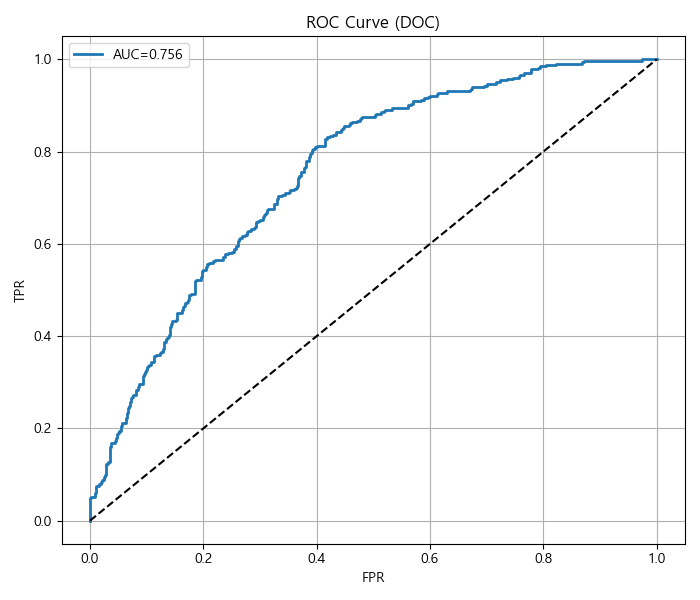
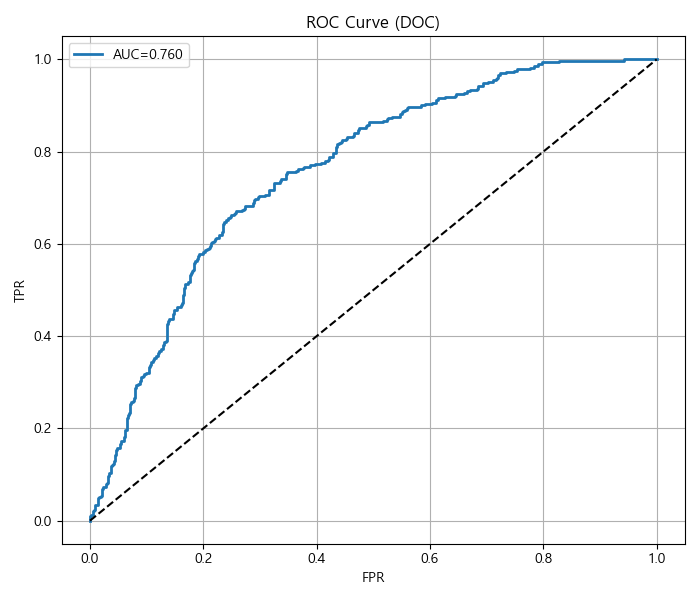
ADB algorithm modified

diff --git a/studio.py b/studio.py
@@ -655,6 +655,7 @@ class DOCRobertaClassifier(pl.LightningModule):
 
 class RobertaADB(pl.LightningModule):
     """RoBERTa model with Adaptive Decision Boundary (ADB) components."""
+    """RoBERTa model with Adaptive Decision Boundary (ADB) components."""
     def __init__( self, model_name: str = "roberta-base", num_classes: int = 20, learning_rate: float = 1e-3,
                   weight_decay: float = 0.0, warmup_steps: int = 0, total_steps: int = 0,
                   delta: float = 0.1, alpha: float = 0.1, freeze_backbone: bool = True ):
@@ -663,44 +664,59 @@ class RobertaADB(pl.LightningModule):
         self.config = RobertaConfig.from_pretrained(model_name)
         self.roberta = RobertaModel.from_pretrained(model_name, config=self.config)
         self.feat_dim = self.config.hidden_size
-        # Learnable centers and radii
-        self.centers = nn.Parameter(torch.empty(num_classes, self.feat_dim), requires_grad=True)
-        self.radii = nn.Parameter(torch.empty(num_classes), requires_grad=True) # Learn radius directly
-        nn.init.normal_(self.centers, std=0.05)
-        # Initialize radii (e.g., corresponding to cosine distance 0.1-0.3)
-        # Radius here is the *distance* boundary. Smaller radius = tighter boundary.
-        nn.init.uniform_(self.radii, 0.1, 0.3)
 
-        self.learning_rate = learning_rate
+        # Learnable centers
+        self.centers = nn.Parameter(torch.empty(num_classes, self.feat_dim), requires_grad=True)
+        nn.init.normal_(self.centers, std=0.05)
+
+        # --- 수정: Radii 대신 Logits for Radii (Delta' in paper) 학습 ---
+        # Softplus(delta_prime) = Delta (Radius) -> ensures Radius > 0
+        # Initialize delta_prime such that initial radius is around 0.1-0.3
+        # softplus(x) = log(1+exp(x)). If we want softplus(x) ~ 0.2, exp(x) ~ exp(0.2)-1 ~ 0.22. x ~ log(0.22) ~ -1.5
+        initial_delta_prime = -1.5
+        self.delta_prime = nn.Parameter(torch.full((num_classes,), initial_delta_prime), requires_grad=True)
+        # --- ---
+
+        self.learning_rate = learning_rate # LR for centers and delta_prime
         self.weight_decay = weight_decay
         self.warmup_steps = warmup_steps
         self.total_steps = total_steps
-        self.delta = delta
-        self.alpha = alpha
+        self.delta = delta # Margin for ADB loss
+        self.alpha = alpha # Weight for ADB loss
         self.num_classes = num_classes
         self.freeze_backbone = freeze_backbone
         if self.freeze_backbone:
             print("[RobertaADB Init] Freezing RoBERTa backbone parameters.")
-            for param in self.roberta.parameters():
-                param.requires_grad = False
-        else:
-             print("[RobertaADB Init] RoBERTa backbone parameters will be fine-tuned.")
+            for param in self.roberta.parameters(): param.requires_grad = False
+        else: print("[RobertaADB Init] RoBERTa backbone parameters will be fine-tuned.")
+
+    # --- 수정: get_radii 메서드 추가 ---
+    def get_radii(self):
+        """Calculate actual radii using Softplus."""
+        return F.softplus(self.delta_prime)
+    # --- ---
 
     @staticmethod
     def _cosine_distance(x: torch.Tensor, y: torch.Tensor) -> torch.Tensor:
-        """Calculates pairwise cosine distance (1 - similarity). Input assumed normalized."""
-        # x_norm = F.normalize(x, p=2, dim=-1) # Input x (features) already normalized
-        y_norm = F.normalize(y, p=2, dim=-1) # Normalize y (centers)
+        """Calculates pairwise cosine distance (1 - similarity). Input x assumed normalized."""
+        y_norm = F.normalize(y, p=2, dim=-1)
         similarity = torch.matmul(x, y_norm.t())
+        # Clamp similarity to avoid numerical issues with acos or 1.0 - sim
+        similarity = torch.clamp(similarity, -1.0 + 1e-7, 1.0 - 1e-7)
         distance = 1.0 - similarity
         return distance
 
     def adb_margin_loss(self, feat_norm: torch.Tensor, labels: torch.Tensor) -> torch.Tensor:
         """Calculates ADB margin loss: max(0, d(feat, c_y) - r_y + delta)."""
-        distances = self._cosine_distance(feat_norm, self.centers) # feat_norm is already normalized
+        distances = self._cosine_distance(feat_norm, self.centers) # feat_norm is normalized
         d_y = distances[torch.arange(feat_norm.size(0), device=self.device), labels]
-        # Ensure radii are positive during loss calculation using ReLU
-        r_y = F.relu(self.radii[labels])
+
+        # --- 수정: get_radii() 사용 ---
+        radii = self.get_radii() # Get positive radii via Softplus
+        r_y = radii[labels]
+        # --- ---
+
+        # Loss = max(0, distance_to_correct_center - radius_of_correct_center + margin)
         loss_per_sample = torch.relu(d_y - r_y + self.delta)
         loss = loss_per_sample.mean()
         return loss
@@ -710,9 +726,8 @@ class RobertaADB(pl.LightningModule):
         with torch.set_grad_enabled(not self.freeze_backbone):
             outputs = self.roberta(input_ids=input_ids, attention_mask=attention_mask, token_type_ids=token_type_ids)
         feat = outputs.last_hidden_state[:, 0, :]
-        feat_norm = F.normalize(feat, p=2, dim=-1) # Normalize features
-        # Logits = cosine similarity to centers
-        logits = 1.0 - self._cosine_distance(feat_norm, self.centers) # feat_norm is already normalized
+        feat_norm = F.normalize(feat, p=2, dim=-1)
+        logits = 1.0 - self._cosine_distance(feat_norm, self.centers)
         return logits, feat_norm
 
     def training_step(self, batch, batch_idx):
@@ -723,9 +738,12 @@ class RobertaADB(pl.LightningModule):
         loss = ce_loss + self.alpha * adb_loss
         self.log_dict({'train_loss': loss, 'train_ce_loss': ce_loss, 'train_adb_loss': adb_loss},
                       prog_bar=True, on_step=True, on_epoch=True, logger=True)
-        avg_radius = F.relu(self.radii).mean().item() # Log positive radius
+        # --- 수정: Log actual radius ---
+        avg_radius = self.get_radii().mean().item()
         self.log("avg_radius", avg_radius, on_step=False, on_epoch=True, logger=True)
+        # --- ---
         return loss
+    
 
     def validation_step(self, batch, batch_idx):
         labels = batch["label"]
@@ -762,24 +780,25 @@ class RobertaADB(pl.LightningModule):
             'logits': logits,      # Similarity-based logits
             'features': feat_norm # Normalized features (crucial for ADB eval)
         }
-
+        
     def configure_optimizers(self):
-        """Configure optimizer (potentially different LR for backbone vs ADB params)."""
+        """Configure optimizer."""
         params_to_optimize = []
         if not self.freeze_backbone:
-             # Use smaller LR for backbone fine-tuning
-             # Find backbone LR from args if specified, else use a fraction of main LR
-             backbone_lr = getattr(self.hparams, 'lr', 2e-5) # Use the general LR from args if needed
+             backbone_lr = getattr(self.hparams, 'lr', 2e-5) # General LR for backbone
              params_to_optimize.append({'params': self.roberta.parameters(), 'lr': backbone_lr})
              print(f"[ADB Optim] Fine-tuning RoBERTa with LR: {backbone_lr}")
-        # Always optimize centers and radii with the specified ADB learning rate
+
+        # Optimize centers and delta_prime (for radii) with the specific ADB LR
         params_to_optimize.append({'params': self.centers, 'lr': self.learning_rate})
-        params_to_optimize.append({'params': self.radii, 'lr': self.learning_rate})
-        print(f"[ADB Optim] Optimizing centers/radii with LR: {self.learning_rate}")
+        # --- 수정: radii 대신 delta_prime 최적화 ---
+        params_to_optimize.append({'params': self.delta_prime, 'lr': self.learning_rate})
+        # --- ---
+        print(f"[ADB Optim] Optimizing centers/delta_prime with LR: {self.learning_rate}")
 
         optimizer = AdamW(params_to_optimize, weight_decay=self.weight_decay)
 
-        # Scheduler only if fine-tuning backbone and total_steps > 0
+        # Scheduler logic remains the same
         if not self.freeze_backbone and self.total_steps > 0:
              actual_warmup_steps = min(self.warmup_steps, self.total_steps)
              scheduler = get_linear_schedule_with_warmup(
@@ -790,6 +809,7 @@ class RobertaADB(pl.LightningModule):
         else:
              print("[ADB Optim] No learning rate scheduler used.")
              return optimizer
+
 
 # =============================================================================
 # OSR Algorithms (Base Class, ThresholdOSR, OpenMaxOSR, CROSROSR, DOCOSR, ADBOSR)
@@ -1565,7 +1585,11 @@ class DOCOSR(OSRAlgorithm):
         print("[DOCOSR Visualize] Finished.")
 
 
+# --- START OF studio.py (ADBOSR fix only) ---
+# ... (imports and other classes) ...
+
 class ADBOSR(OSRAlgorithm):
+    """OSR algorithm using Adaptive Decision Boundaries (ADB)."""
     def __init__(self, model, datamodule, args):
         if not isinstance(model, RobertaADB): raise TypeError("ADBOSR needs RobertaADB.")
         super().__init__(model, datamodule, args)
@@ -1577,18 +1601,23 @@ class ADBOSR(OSRAlgorithm):
         if self.distance_metric == 'cosine':
             centers_norm = F.normalize(centers, p=2, dim=-1)
             similarity = torch.matmul(features_norm, centers_norm.t())
+            similarity = torch.clamp(similarity, -1.0 + 1e-7, 1.0 - 1e-7) # Clamp for stability
             return 1.0 - similarity
         elif self.distance_metric == 'euclidean':
-             # Need unnormalized centers if using Euclidean with normalized features? Or normalize both?
-             # Let's assume we compare normalized features to learnable (potentially unnormalized) centers via Euclidean.
-             return torch.cdist(features_norm, centers, p=2)
+             # Ensure centers are also normalized if comparing normalized features
+             centers_norm = F.normalize(centers, p=2, dim=-1)
+             return torch.cdist(features_norm, centers_norm, p=2)
         else: raise ValueError(f"Unknown distance: {self.distance_metric}")
 
-    def predict(self, dataloader):
+    def predict(self, dataloader) -> tuple[np.ndarray, np.ndarray, np.ndarray, np.ndarray, np.ndarray]:
         self.model.eval().to(self.device)
         all_features = []; all_distances = []; all_preds_final = []; all_labels = []; all_min_distances = []
+
         centers = self.model.centers.detach()
-        radii = F.relu(self.model.radii.detach()) # Use positive radii for rejection check
+        # --- 수정: get_radii() 사용 ---
+        # Calculate positive radii using the same method as in training
+        radii = self.model.get_radii().detach()
+        # --- ---
 
         with torch.no_grad():
             for batch in tqdm(dataloader, desc="Predicting (ADB OSR)"):
@@ -1598,20 +1627,26 @@ class ADBOSR(OSRAlgorithm):
                 _, features_norm = self.model(ids, attn, tok) # Get normalized features
 
                 distances_batch = self.compute_distances(features_norm, centers) # B x C
-                min_distances_batch, closest_indices_batch = torch.min(distances_batch, dim=1) # Indices are 0..N-1
-                closest_radii_batch = radii[closest_indices_batch]
+                min_distances_batch, closest_indices_batch = torch.min(distances_batch, dim=1) # Indices 0..N-1
+                closest_radii_batch = radii[closest_indices_batch] # Use calculated positive radii
 
                 pred_indices_np = closest_indices_batch.cpu().numpy()
                 min_distances_np = min_distances_batch.cpu().numpy()
                 closest_radii_np = closest_radii_batch.cpu().numpy()
 
                 batch_preds_final = np.full_like(pred_indices_np, -1)
-                accept_mask = min_distances_np <= closest_radii_np # Accept if distance <= radius
+                # Accept if distance <= radius
+                accept_mask = min_distances_np <= closest_radii_np
 
                 if np.any(accept_mask):
                     accepted_indices = pred_indices_np[accept_mask]
-                    original_indices = self.datamodule.original_seen_indices[accepted_indices]
-                    batch_preds_final[accept_mask] = original_indices
+                    # Map 0..N-1 back to original seen indices
+                    if self.datamodule.original_seen_indices is not None:
+                         original_indices = self.datamodule.original_seen_indices[accepted_indices]
+                         batch_preds_final[accept_mask] = original_indices
+                    else: # Fallback if original indices not found
+                         print("Warning: original_seen_indices not found in datamodule for ADB mapping.")
+                         batch_preds_final[accept_mask] = accepted_indices # Use internal index as fallback
 
                 all_features.append(features_norm.cpu().numpy())
                 all_distances.append(distances_batch.cpu().numpy())
@@ -1623,9 +1658,12 @@ class ADBOSR(OSRAlgorithm):
                (np.concatenate(all_distances) if all_distances else np.array([])), \
                np.array(all_preds_final), np.array(all_labels), np.array(all_min_distances)
 
-
-    def evaluate(self, dataloader):
+    # evaluate and visualize methods remain the same...
+    def evaluate(self, dataloader) -> dict:
+        # ... (previous evaluate implementation) ...
         all_features, all_distances, all_preds, all_labels, all_min_distances = self.predict(dataloader)
+        if len(all_labels) == 0: print("Warning: No data to evaluate for ADB."); return {'accuracy': 0, 'auroc': float('nan'), 'f1_score': 0, 'unknown_detection_rate': 0}
+
         unknown_labels_mask = self.datamodule._determine_unknown_labels(all_labels)
         unknown_preds_mask = (all_preds == -1); known_mask = ~unknown_labels_mask
 
@@ -1633,14 +1671,17 @@ class ADBOSR(OSRAlgorithm):
         unknown_correct = np.sum(unknown_preds_mask & unknown_labels_mask)
         unknown_total = np.sum(unknown_labels_mask)
         unknown_detection_rate = unknown_correct / unknown_total if unknown_total > 0 else 0.0
-        # Use min distance for AUROC (higher distance -> more unknown)
-        auroc = roc_auc_score(unknown_labels_mask, all_min_distances) if len(np.unique(unknown_labels_mask)) > 1 else float('nan')
+        auroc = roc_auc_score(unknown_labels_mask, all_min_distances) if len(np.unique(unknown_labels_mask)) > 1 else float('nan') # Higher distance -> more unknown
 
         labels_mapped_for_cm = all_labels.copy(); labels_mapped_for_cm[unknown_labels_mask] = -1
         cm_axis_labels_int, cm_axis_labels_names = self._get_cm_labels()
-        conf_matrix = confusion_matrix(labels_mapped_for_cm, all_preds, labels=cm_axis_labels_int)
-        _, _, f1_by_class, _ = precision_recall_fscore_support(labels_mapped_for_cm, all_preds, labels=cm_axis_labels_int, average=None, zero_division=0)
-        macro_f1 = np.mean(f1_by_class)
+        valid_cm_labels = set(cm_axis_labels_int)
+        filtered_labels_true = [l if l in valid_cm_labels else -1 for l in labels_mapped_for_cm]
+        filtered_labels_pred = [p if p in valid_cm_labels else -1 for p in all_preds]
+
+        conf_matrix = confusion_matrix(filtered_labels_true, filtered_labels_pred, labels=cm_axis_labels_int)
+        precision, recall, f1_by_class, _ = precision_recall_fscore_support(filtered_labels_true, filtered_labels_pred, labels=cm_axis_labels_int, average=None, zero_division=0)
+        macro_f1 = np.mean(f1_by_class) if len(f1_by_class) > 0 else 0.0
 
         print("\nADB OSR Evaluation Summary:")
         print(f"  Distance Metric: {self.distance_metric}")
@@ -1651,24 +1692,29 @@ class ADBOSR(OSRAlgorithm):
                    'predictions': all_preds, 'labels': all_labels, 'features': all_features, 'distances': all_distances, 'min_distances': all_min_distances}
         return results
 
-    def visualize(self, results):
+    def visualize(self, results: dict):
+        # ... (previous visualize implementation, ensure it uses self.model.get_radii() for avg radius plot) ...
         print("[ADBOSR Visualize] Generating plots..."); os.makedirs("results", exist_ok=True)
         base_filename = f"results/adb_osr_{self.args.dataset}_{self.args.seen_class_ratio}"
+        if 'labels' not in results or len(results['labels']) == 0: print("No data to visualize."); return
+
         labels_np = results['labels']; unknown_labels_mask = self.datamodule._determine_unknown_labels(labels_np)
         min_distances = results['min_distances']
 
         if len(np.unique(unknown_labels_mask)) > 1: # ROC
-            fpr, tpr, _ = roc_curve(unknown_labels_mask, min_distances); roc_auc_val = auc(fpr, tpr) # Higher dist -> more unknown
+            fpr, tpr, _ = roc_curve(unknown_labels_mask, min_distances); roc_auc_val = auc(fpr, tpr)
             plt.figure(figsize=(7, 6)); plt.plot(fpr, tpr, lw=2, label=f'AUC={roc_auc_val:.3f}'); plt.plot([0,1],[0,1],'k--'); plt.xlabel('FPR'); plt.ylabel('TPR'); plt.title('ROC Curve (ADB)'); plt.legend(); plt.grid(); plt.tight_layout(); plt.savefig(f"{base_filename}_roc.png"); plt.close(); print("  ROC saved.")
         else: print("  Skipping ROC.")
 
         # Min Distance Dist
         plt.figure(figsize=(7, 5)); sns.histplot(data=pd.DataFrame({'dist': min_distances, 'Known': ~unknown_labels_mask}), x='dist', hue='Known', kde=True, stat='density', common_norm=False)
-        mean_radius = F.relu(self.model.radii.detach()).mean().item() # Avg positive radius
+        # --- 수정: get_radii() 사용 ---
+        mean_radius = self.model.get_radii().detach().mean().item()
         plt.axvline(mean_radius, color='g', linestyle=':', label=f'Avg Radius~{mean_radius:.3f}')
+        # --- ---
         plt.title(f'Min Distance Distribution (ADB - {self.distance_metric})'); plt.xlabel(f'Min {self.distance_metric.capitalize()} Distance'); plt.legend(); plt.grid(alpha=0.5); plt.tight_layout(); plt.savefig(f"{base_filename}_distance.png"); plt.close(); print("  Distance dist saved.")
 
-        # t-SNE (Optional)
+        # t-SNE (Keep as before)
         if 'features' in results and len(results['features']) > 100 and results['features'].shape[1] > 2:
              try:
                  from sklearn.manifold import TSNE
@@ -1677,10 +1723,10 @@ class ADBOSR(OSRAlgorithm):
                  n_samples = features.shape[0]; max_tsne = 5000
                  indices = np.random.choice(n_samples, min(n_samples, max_tsne), replace=False)
                  features_sub = features[indices]; unknown_sub = unknown_labels_mask[indices]
-                 if self.distance_metric == 'cosine': # Normalize centers for t-SNE if using cosine
-                      centers = F.normalize(torch.from_numpy(centers), p=2, dim=-1).numpy()
+                 # Normalize centers for t-SNE if using cosine distance
+                 centers_norm = F.normalize(torch.from_numpy(centers), p=2, dim=-1).numpy()
 
-                 combined = np.vstack([features_sub, centers])
+                 combined = np.vstack([features_sub, centers_norm]) # Embed normalized centers
                  tsne = TSNE(n_components=2, random_state=self.args.random_seed, perplexity=min(30, combined.shape[0]-1), n_iter=300, init='pca', learning_rate='auto')
                  reduced = tsne.fit_transform(combined)
                  reduced_feats, reduced_centers = reduced[:-len(centers)], reduced[-len(centers):]
@@ -1694,11 +1740,12 @@ class ADBOSR(OSRAlgorithm):
              except Exception as e: print(f"  t-SNE error: {e}")
         else: print("  Skipping t-SNE (few samples or low dim).")
 
-
-        # CM
+        # CM (Keep as before)
         plt.figure(figsize=(max(6, len(results['confusion_matrix_labels'])*0.6), max(5, len(results['confusion_matrix_labels'])*0.5))); sns.heatmap(results['confusion_matrix'], annot=True, fmt='d', cmap='Blues', xticklabels=results['confusion_matrix_names'], yticklabels=results['confusion_matrix_names'], annot_kws={"size": 8}); plt.xlabel('Predicted'); plt.ylabel('True'); plt.title('Confusion Matrix (ADB)'); plt.xticks(rotation=45, ha='right', fontsize=9); plt.yticks(rotation=0, fontsize=9); plt.tight_layout(); plt.savefig(f"{base_filename}_confusion.png"); plt.close(); print("  CM saved.")
         print("[ADBOSR Visualize] Finished.")
 
+
+# --- END OF studio.py (ADBOSR fix only) ---
 
 # =============================================================================
 # Training and Evaluation Functions (Updated)
